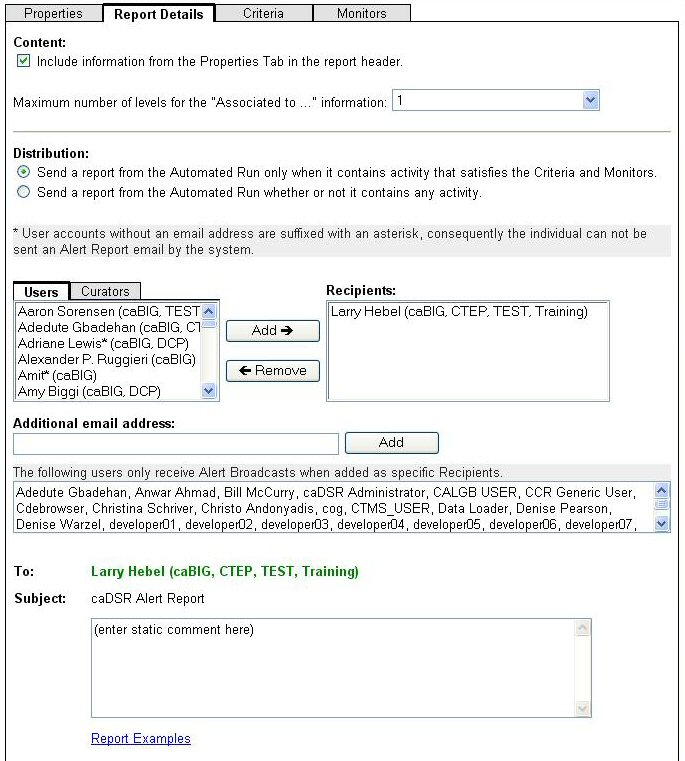
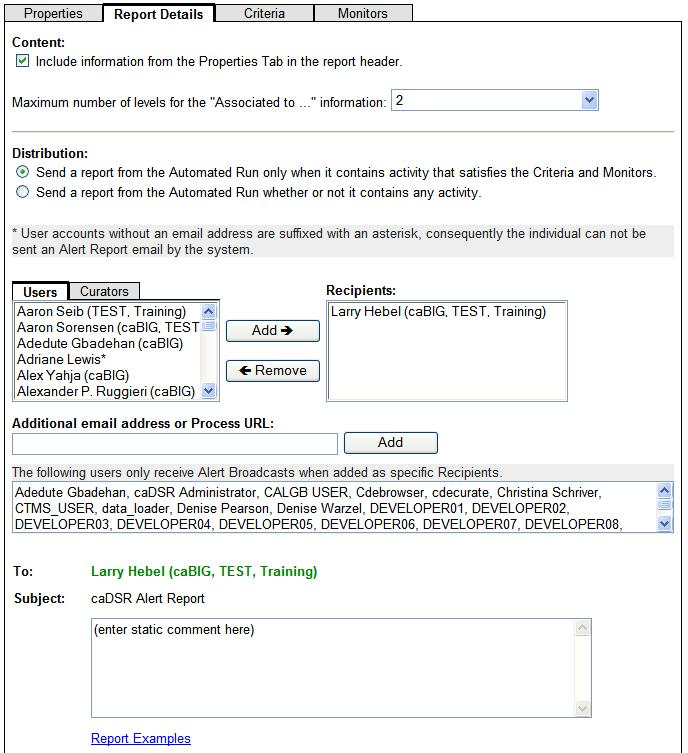
updated help for new Process URL recipient
SVN-Revision: 503

diff --git a/sentinel/WebRoot/html/help.html b/sentinel/WebRoot/html/help.html
@@ -1,5 +1,5 @@
 <!-- Copyright ScenPro, Inc. 2005
-     $Header: /share/content/gforge/sentinel/sentinel/WebRoot/html/help.html,v 1.3 2007-12-07 23:03:04 hebell Exp $
+     $Header: /share/content/gforge/sentinel/sentinel/WebRoot/html/help.html,v 1.4 2007-12-11 15:34:22 hebell Exp $
      $Name: not supported by cvs2svn $
 -->
 <html>
@@ -118,7 +118,7 @@
                         Introduction
                     </p>
                     <p class="std12" style="border-left: solid blue 3px; padding-left: 0.1in">
-                        Important changes between the Sentinel Tool release 3.1 and 3.2 are indicated by the heavy blue line to the left of the paragraph. All window images and
+                        Important changes between the Sentinel Tool release 3.2 and 3.2.0.3 are indicated by the heavy blue line to the left of the paragraph. All window images and
                         report examples are updated for the 3.2 interface. More information concerning changes can be found in the <a>caCORE 3.2 Release Notes</a>.
                     </p>
                     <p class="std12">
@@ -169,7 +169,7 @@
                             Version
                         </li>
                     </ul>
-                    <p class="std12" style="border-left: solid blue 3px; padding-left: 0.1in">
+                    <p class="std12">
                         Additional details on the processing and interpretation of an Alert Definition can be found in the
                         <a href="https://gforge.nci.nih.gov/docman/index.php?group_id=32&selected_doc_group_id=573&language_id=1" target="_blank">Sentinel
                         Tool Installation Guide</a>, System
@@ -215,7 +215,7 @@
                         <img class="image" title="Footer Banner" alt="Footer Banner Picture" src="/cadsrsentinel/images/bannerfoot.jpg" />
                     </p>
 
-                    <p class="std12" style="border-left: solid blue 3px; padding-left: 0.1in">
+                    <p class="std12">
                         The header and footer banners appear consistently on every page in the Sentinel Tool. Moving the mouse over the images and text
                         displays a tool tip description for the link. In all cases selecting one of these links opens a new browser window and retains the
                         Sentinel Tool page display.
@@ -341,7 +341,7 @@
                         <dd>
                             The frequency is selected by the Creator on the Edit Properties page. It defines when the Alert Definition is processed by the
                             Automated Alert Report Generator.
-                        <dt style="border-left: solid blue 3px; padding-left: 0.1in"><b>Last Auto Run</b>
+                        <dt><b>Last Auto Run</b>
                         <dd>
                             The date/time is set by the Sentinel Automated Alert Report Generator when the Alert Definition is processed. This date is set whether or not a
                             report is generated. For example, the frequency of an Alert Definition is set to daily but the date/time shows a date from more than
@@ -527,7 +527,7 @@
                         <dt>Include information &hellip;<dd>Select to include an expanded header at the top of the report. The expanded header
                             contains all the information appearing on the Properties Tab in addition to the standard information which includes the
                             reporting date and the source database.
-                        <dt class="std12" style="border-left: solid blue 3px; padding-left: 0.1in">Maximum number of levels &hellip;<dd>Set the stopping
+                        <dt class="std12">Maximum number of levels &hellip;<dd>Set the stopping
                             point on reporting the "Associated To" records. Each change in the caDSR has a defined area of effect. The record containing the
                             change is referred to as level 0 (zero). Records directly associated to it are a level 1 (one). Records associated to the associated
                             records are a level 2, and so on. For example, a Value Domain is changed, it is level 0. The Data Elements referencing the Value
@@ -552,12 +552,12 @@
                                     is given any write permissions to the caDSR. Read only accounts are not included in any group. Selecting a Curator group as a recipient hides 
                                     changes in the organization or assigned responsibilities. Alert Report e-mails to Curator groups are sent to all members except those listed
                                     below "Additional e-mail address".
-                                <dt>Additional e-mail address and Process URL<dd>A desired recipients well formed e-mail address or software well formed URL.
+                                <dt style="border-left: solid blue 3px; padding-left: 0.1in">Additional e-mail address and Process URL<dd>A desired recipients well formed e-mail address or software well formed URL.
                                     This is often used to specify alternate e-mail addresses, temporary recipients and software process applications.
                                     The user account profile supports a single e-mail address. Additional e-mail addresses must be entered here, e.g.
                                     for John Smith to recieve an Alert Report at both work and home, the user account profile may contain one and the other entered here.
                                     Alternatively, the user account profile may not have an e-mail address and both are entered here. If entering a process URL, please contact the NCI Help Desk
-                                    for programming design requirements and instructions.
+                                    for programming design requirements and instructions on the target server application.
                                 <dt>The following users only receive &hellip;<dd>The users who have intentionally requested exclusion from the Recipient Curator groups. These users only
                                     receive Alert Report e-mails when included by name or by e-mail address in the Recipient list.
                             </dl>
@@ -588,7 +588,7 @@
                     <p class="image">
                         <img class="image" title="Edit Criteria Tab" alt="Edit Criteria Tab Picture" src="/cadsrsentinel/images/edit4.jpg" />
                     </p>
-                    <p class="std12" style="border-left: solid blue 3px; padding-left: 0.1in">
+                    <p class="std12">
                         The Criteria Tab contains attributes controlling the Alert Report scope. All lists on this page support multiple selections using standard
                         selection key combinations using the mouse, Ctrl and Shift.
                     </p>
@@ -622,7 +622,7 @@
                         changes. Others keep a change history with the user making the change. When history records exist the scope includes all changes made by
                         the users selected.
                     </dl>
-                    <p class="std12" style="border-left: solid blue 3px; padding-left: 0.1in">
+                    <p class="std12">
                         Selections are combined using logical "OR" conditions for an attribute and logical "AND" conditions for the criteria. For example, a selection of
                         Contexts CTEP and CCR and a selection of Created By user Bob Marley will result in a scope set of:
                     </p>
@@ -633,7 +633,7 @@
                         The summary which appears on the Properties tab has been annotated to clearly convey the interpretation of the criteria scope. The
                         parentheses in this example illustrate the logical association of expressions.
                     </p>
-                    <p class="std12" style="border-left: solid blue 3px; padding-left: 0.1in">
+                    <p class="std12">
                         <u>Note:</u> The Workflow Status and Registration Status on this tab are not related to the attributes on the Monitors tab. On the
                         Criteria tab these attributes define the current data scope. Selecting a specific value limits the scope using the current value not a
                         previous value. On the Monitor tab these attributes define a specific change to trigger an Alert Report.
@@ -905,12 +905,12 @@
                         created date. If the public id or version appears as N/A, the record can not have the attribute. If the modified by and date appear as
                         &lt;null&gt;, the record has not been changed since its original creation.
                     </p>
-                    <p class="std12" style="border-left: solid blue 3px; padding-left: 0.1in">
+                    <p class="std12">
                         For change activities for most Administered Components (including Data Element, Data Element Concept and Value Domain) another sub-block
                         appears showing the specific changes noted by attribute, old value and new value. Some change blocks state the details are unavailable.
                         This is due to incomplete auditing information and will be addressed with each new release.
                     </p>
-                    <p class="std12" style="border-left: solid blue 3px; padding-left: 0.1in">
+                    <p class="std12">
                         Reports are prevented from becoming too large for the browser via a system configuration threshold. When a report exceeds the threshold
                         it is divided into multiple parts. The rows are counted as described above and not as individual lines. This is called a multi-part
                         report. The e-mail sent to each recipient will note the number of parts created. The link provided in the e-mail is to an index of links
